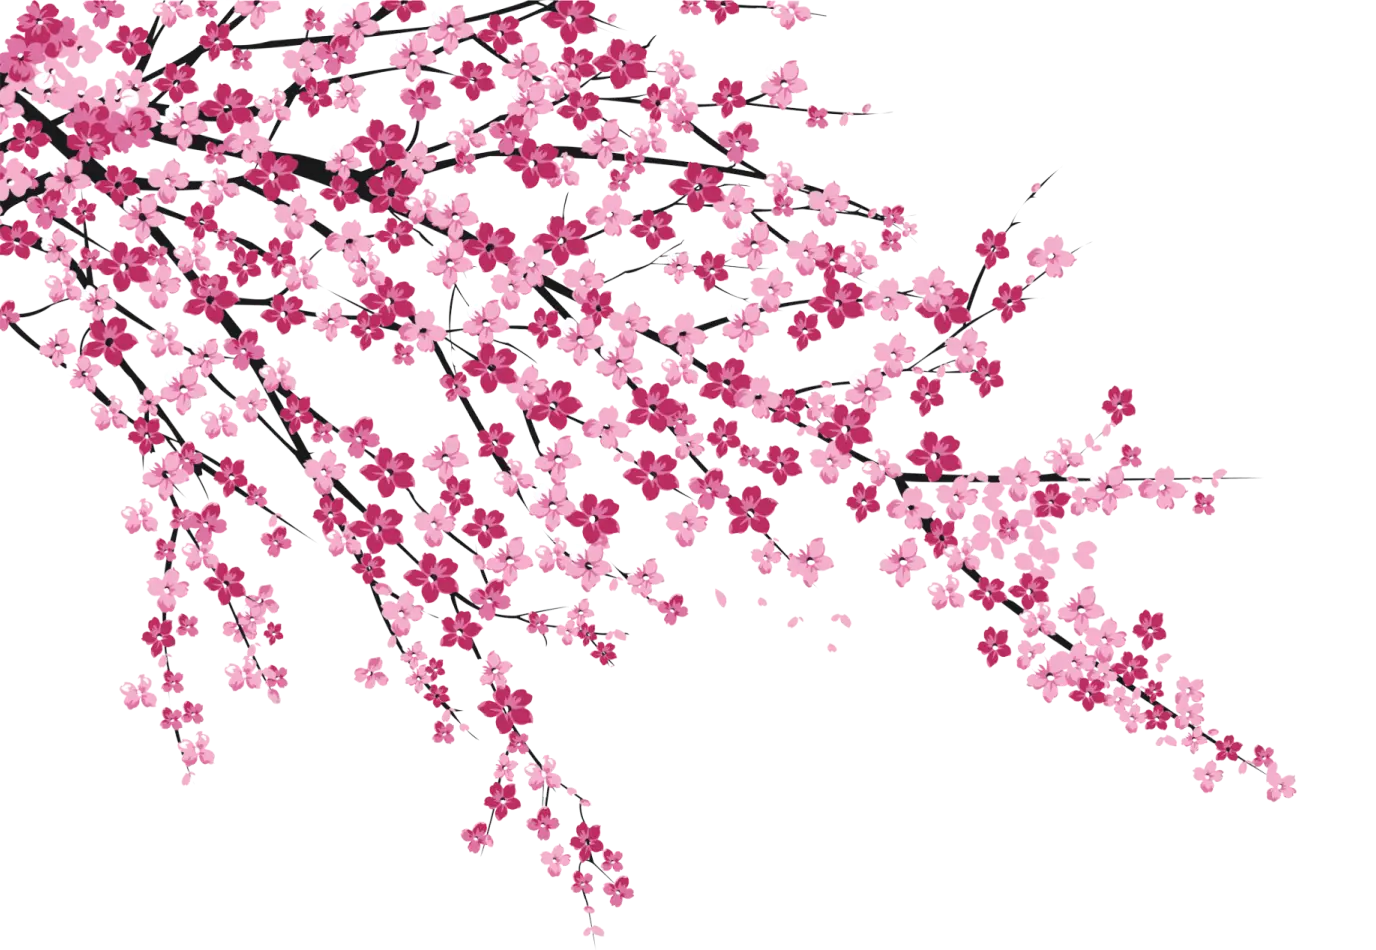
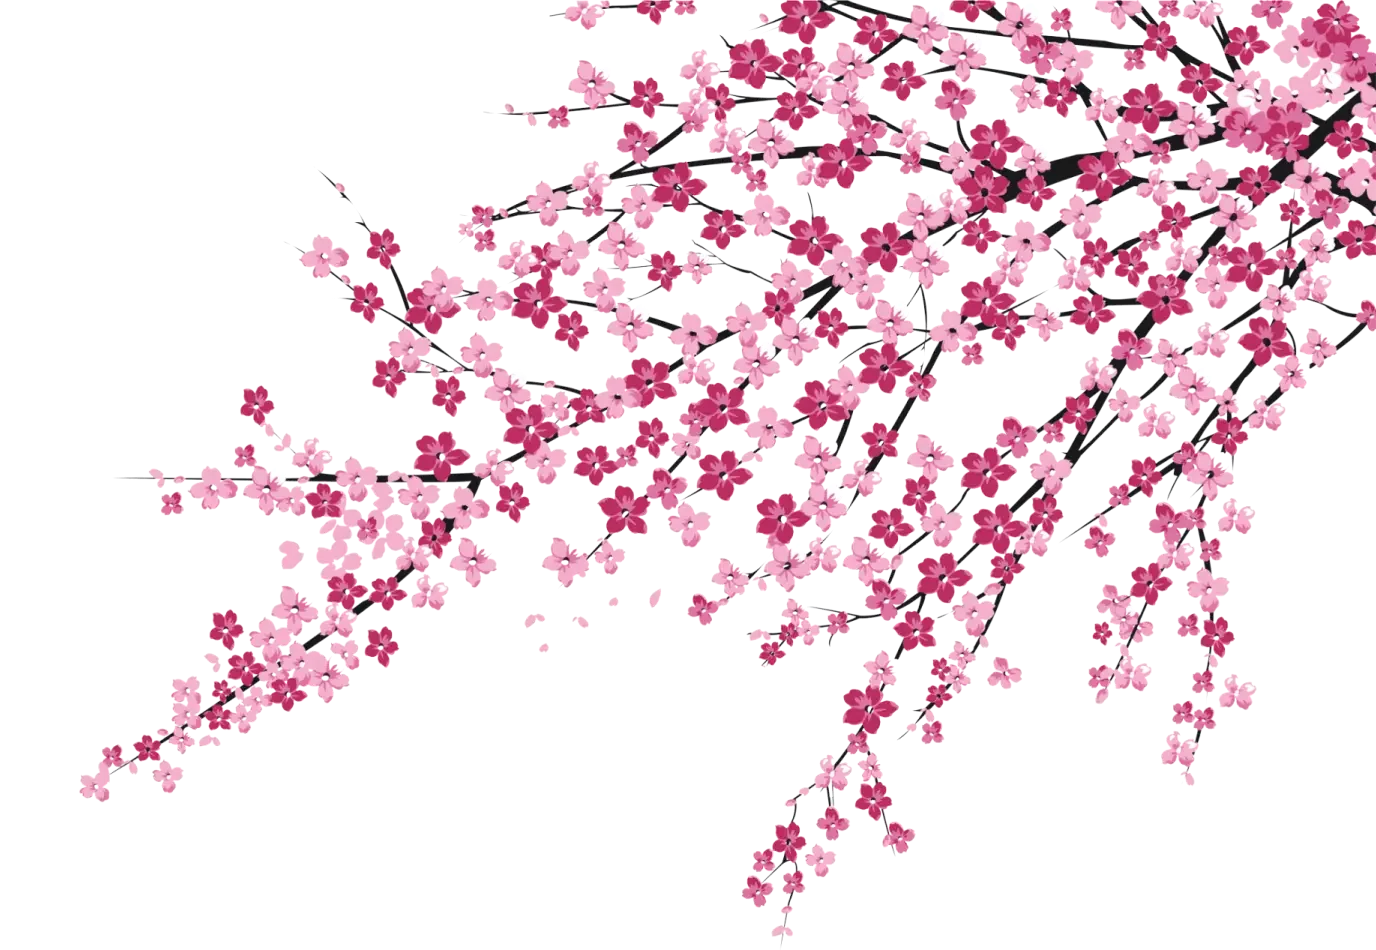
feat: style the about page

diff --git a/apps/tasky/pages/about.vue b/apps/tasky/pages/about.vue
@@ -1,38 +1,87 @@
 <template>
     <div class="flex flex-col">
-        <img src="../public/Unlogged/aboutImages/sakura.webp" class="absolute z-0">
-        <div class="bg-about-50/50 flex flex-col w-screen justify-between pb-20 z-10 rounded-3xl">
-            <h1 class="text-6xl pt-28 pl-20 text-about-200">
-                Who are we?
-            </h1>
-            <h2 class="text-4xl pt-16 pl-20 pr-40 text-about-200">
-                At Tasky, we're on a mission to make the world greener, one task at a time.
-                We believe that positive change happens through small, meaningful actions.
-                That's why Tasky combines productivity with environmental impact: 
-                every time you complete a task, we plant a tree on your behalf. 
-                It’s our way of turning everyday goals into real-life growth.
-                With each task you accomplish, you're not just checking off an item on your 
-                to-do list—you’re contributing to global reforestation efforts. 
-                Whether it's a simple daily habit or a big project, your efforts help create a 
-                greener, healthier planet. Join us in making productivity sustainable. Plant trees. 
-                Achieve goals. Grow together with Tasky.
-            </h2>
+        <img src="../public/Unlogged/aboutImages/sakura.webp" class="absolute z-0 right-0">
+        <div class="bg-about-50/50 flex w-screen justify-between pb-20 z-10 rounded-3xl">
+            <div class="flex flex-col w-3/6">
+                <h1 class="text-4xl pt-28 pl-20 text-about-200">
+                    Who are we?
+                </h1>
+                <h2 class="text-2xl pt-16 pl-20 pr-40 text-about-200">
+                    Our team is on a mission to make productivity more rewarding and the planet a little greener!
+                    Driven by the idea that small, positive actions add up, we created this app to help you complete your personal goals while giving back to nature.
+                    Each task you check off plants a real tree, bringing your achievements to life in a whole new way.
+                    We’re passionate about technology, sustainability, and helping people reach their full potential.
+                    Join us on this journey to make a difference, one task—and one tree—at a time!
+                </h2>
+            </div>
+            <div class="w-1/2 pt-28 px-40">
+                <img src="../public/Unlogged/aboutImages/ourTeam.webp" class="rounded-2xl">
+            </div>
         </div>
-        <div class="bg-about-50/50 flex flex-col w-screen justify-between pb-44 z-10 rounded-3xl">
-            <h1 class="text-6xl pt-28 pl-20 text-about-200">
-                Why did our team choose to create Tasky?
-            </h1>
-            <h2 class="text-4xl pt-16 pl-20 pr-40 text-about-200">
-                In today’s fast-paced world, it’s easy to get caught up in to-do lists and 
-                daily demands without feeling connected to a larger purpose. 
-                We created Tasky to bridge that gap—to give productivity a purpose. With each task completed, 
-                users contribute to a cause much bigger than themselves: a greener planet.
-                We saw an opportunity to inspire people to make their personal growth journey impactful on a global scale. 
-                By transforming daily tasks into planted trees, Tasky empowers users to be part of the 
-                solution to climate change, all while staying motivated to reach their goals. 
-                Tasky is here to remind everyone that productivity and purpose can 
-                go hand in hand, and that even small actions can make a big difference.
-            </h2>
+        <div class="bg-about-50/50 flex w-screen justify-between z-10 rounded-3xl">
+            <div class="w-1/2 pt-28 px-40">
+                <img src="../public/Unlogged/aboutImages/missionAndVision.webp" class="rounded-2xl">
+            </div>
+            <div class="flex flex-col w-3/6">
+                <h1 class="text-4xl pt-28 pl-20 text-about-200">
+                    Our Mission & Vision.
+                </h1>
+                <h2 class="text-2xl pt-16 pl-20 pr-40 text-about-200">
+                    Our mission is to make personal growth meaningful, not just for individuals but for the planet.
+                    We envision a world where every completed goal has a lasting impact on our environment.
+                </h2>
+            </div>
+        </div>
+        <div class="bg-about-50/50 flex w-screen justify-between pb-44 z-10 rounded-3xl">
+            <div class="flex flex-col w-3/6">
+                <h1 class="text-4xl pt-28 pl-20 text-about-200">
+                    How It Works.
+                </h1>
+                <h2 class="text-2xl pt-16 pl-20 pr-40 text-about-200">
+                    ‣ Set Your Goals
+                    <ShowFullText
+                        full-text="Create personal goals or tasks you want to accomplish—big or small, it’s up to you!
+                        From exercising regularly to learning a new skill, you’re in control of what’s important."
+                    />
+                </h2>
+                <h2 class="text-2xl pt-8 pl-20 pr-40 text-about-200">
+                    ‣ Complete Your Tasks
+                    <ShowFullText
+                        full-text="Track your progress by marking tasks as complete. Each completed task isn’t just a
+                        checkmark—it’s a step toward making a positive impact on the world."
+                    />
+                </h2>
+                <h2 class="text-2xl pt-8 pl-20 pr-40 text-about-200">
+                    ‣ Plant a Tree with Each Milestone
+                    <ShowFullText
+                        full-text="For every task completed, a tree is planted on your behalf.
+                        We partner with tree-planting organizations to ensure your achievements are matched with real-world action.
+                        By completing goals, you’re directly supporting global reforestation efforts."
+                    />
+                </h2>
+                <h2 class="text-2xl pt-8 pl-20 pr-40 text-about-200">
+                    ‣ Track Your Impact
+                    <ShowFullText
+                        full-text="Watch your “Forest” grow! Our app tracks every tree you’ve planted, showing the direct impact of your achievements.
+                        You’ll see how many trees you’ve contributed, and we’ll keep you
+                        updated on the difference your personal growth is making in the environment."
+                    />
+                </h2>
+                <h2 class="text-2xl pt-8 pl-20 pr-40 text-about-200">
+                    ‣ Challenge Yourself & Share
+                    <ShowFullText
+                        full-text="Need motivation? Set higher goals or invite friends to join!
+                        Share your progress, compare your achievements, and challenge each other to keep growing your collective forest."
+                    />
+                </h2>
+            </div>
+            <div class="w-1/2 pt-28 px-40">
+                <img src="../public/Unlogged/aboutImages/howItWorks.webp" class="rounded-2xl">
+            </div>
         </div>
     </div>
 </template>
+<script setup>
+import ShowFullText from '~/components/Utils/ShowFullText.vue';
+
+</script>
